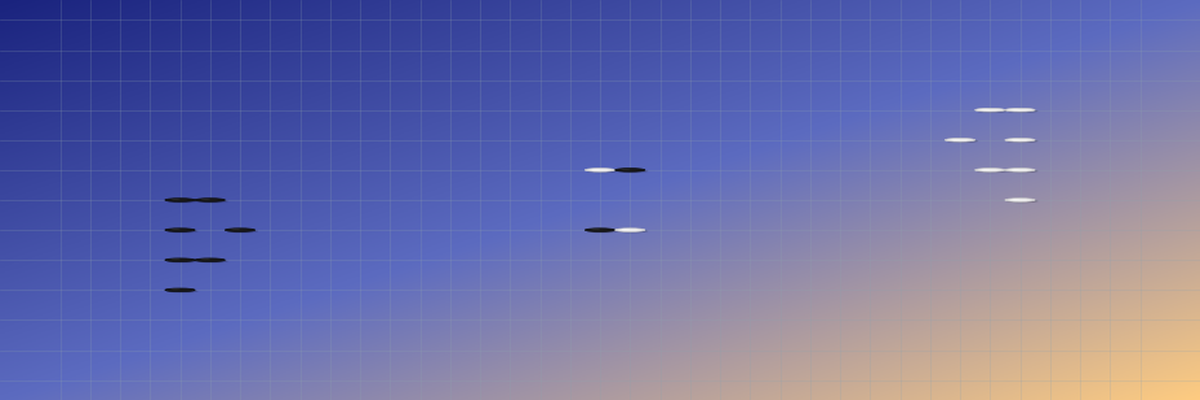
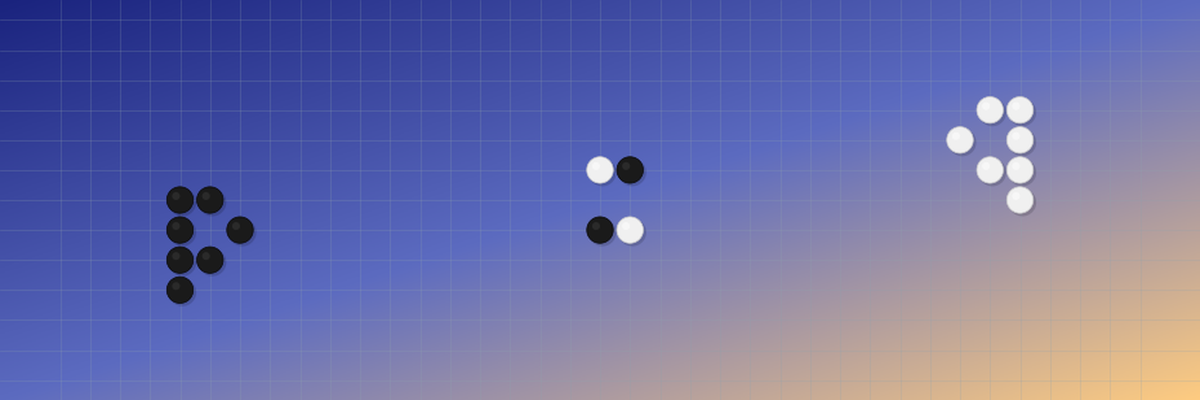
fix(blog): Correct stone aspect ratio - now properly round

diff --git a/blog/scripts/generate_hero.py b/blog/scripts/generate_hero.py
@@ -113,10 +113,11 @@ def draw_stone(ax, grid_x, grid_y, color, n_vertical=37, n_horizontal=13):
     x = margin + (1 - 2*margin) * grid_x / (n_vertical - 1)
     y = margin + (1 - 2*margin) * grid_y / (n_horizontal - 1)
 
-    # Stone size - to appear round in 3:1 image, height must be width/aspect
-    # Using width in normalized coords, height must be smaller
-    stone_width = 0.025  # Width in normalized x coords
-    stone_height = stone_width / aspect  # Height in normalized y coords (smaller to appear round)
+    # Stone size - for a round appearance in 3:1 image:
+    # width_pixels = stone_w * 1200, height_pixels = stone_h * 400
+    # For circle: width_pixels = height_pixels → stone_h = stone_w * 3
+    stone_w = 0.022  # Smaller to avoid overlap
+    stone_h = stone_w * aspect  # Height in plot coords (taller to compensate for squash)
 
     # Main stone body
     if color == 'black':
@@ -130,15 +131,15 @@ def draw_stone(ax, grid_x, grid_y, color, n_vertical=37, n_horizontal=13):
 
     # Stone shadow (subtle)
     shadow = patches.Ellipse(
-        (x + 0.002, y - 0.003),
-        stone_width * 1.05, stone_height * 1.05,
-        facecolor='#000000', alpha=0.2, zorder=2
+        (x + 0.002, y - 0.006),
+        stone_w * 1.05, stone_h * 1.05,
+        facecolor='#000000', alpha=0.15, zorder=2
     )
     ax.add_patch(shadow)
 
     # Main stone
     stone = patches.Ellipse(
-        (x, y), stone_width, stone_height,
+        (x, y), stone_w, stone_h,
         facecolor=base_color, edgecolor=edge_color,
         linewidth=0.5, zorder=3
     )
@@ -146,9 +147,9 @@ def draw_stone(ax, grid_x, grid_y, color, n_vertical=37, n_horizontal=13):
 
     # Highlight for 3D effect
     highlight = patches.Ellipse(
-        (x - stone_width * 0.15, y + stone_height * 0.2),
-        stone_width * 0.3, stone_height * 0.3,
-        facecolor=highlight_color, alpha=0.6, zorder=4
+        (x - stone_w * 0.15, y + stone_h * 0.15),
+        stone_w * 0.3, stone_h * 0.3,
+        facecolor=highlight_color, alpha=0.5, zorder=4
     )
     ax.add_patch(highlight)
 
